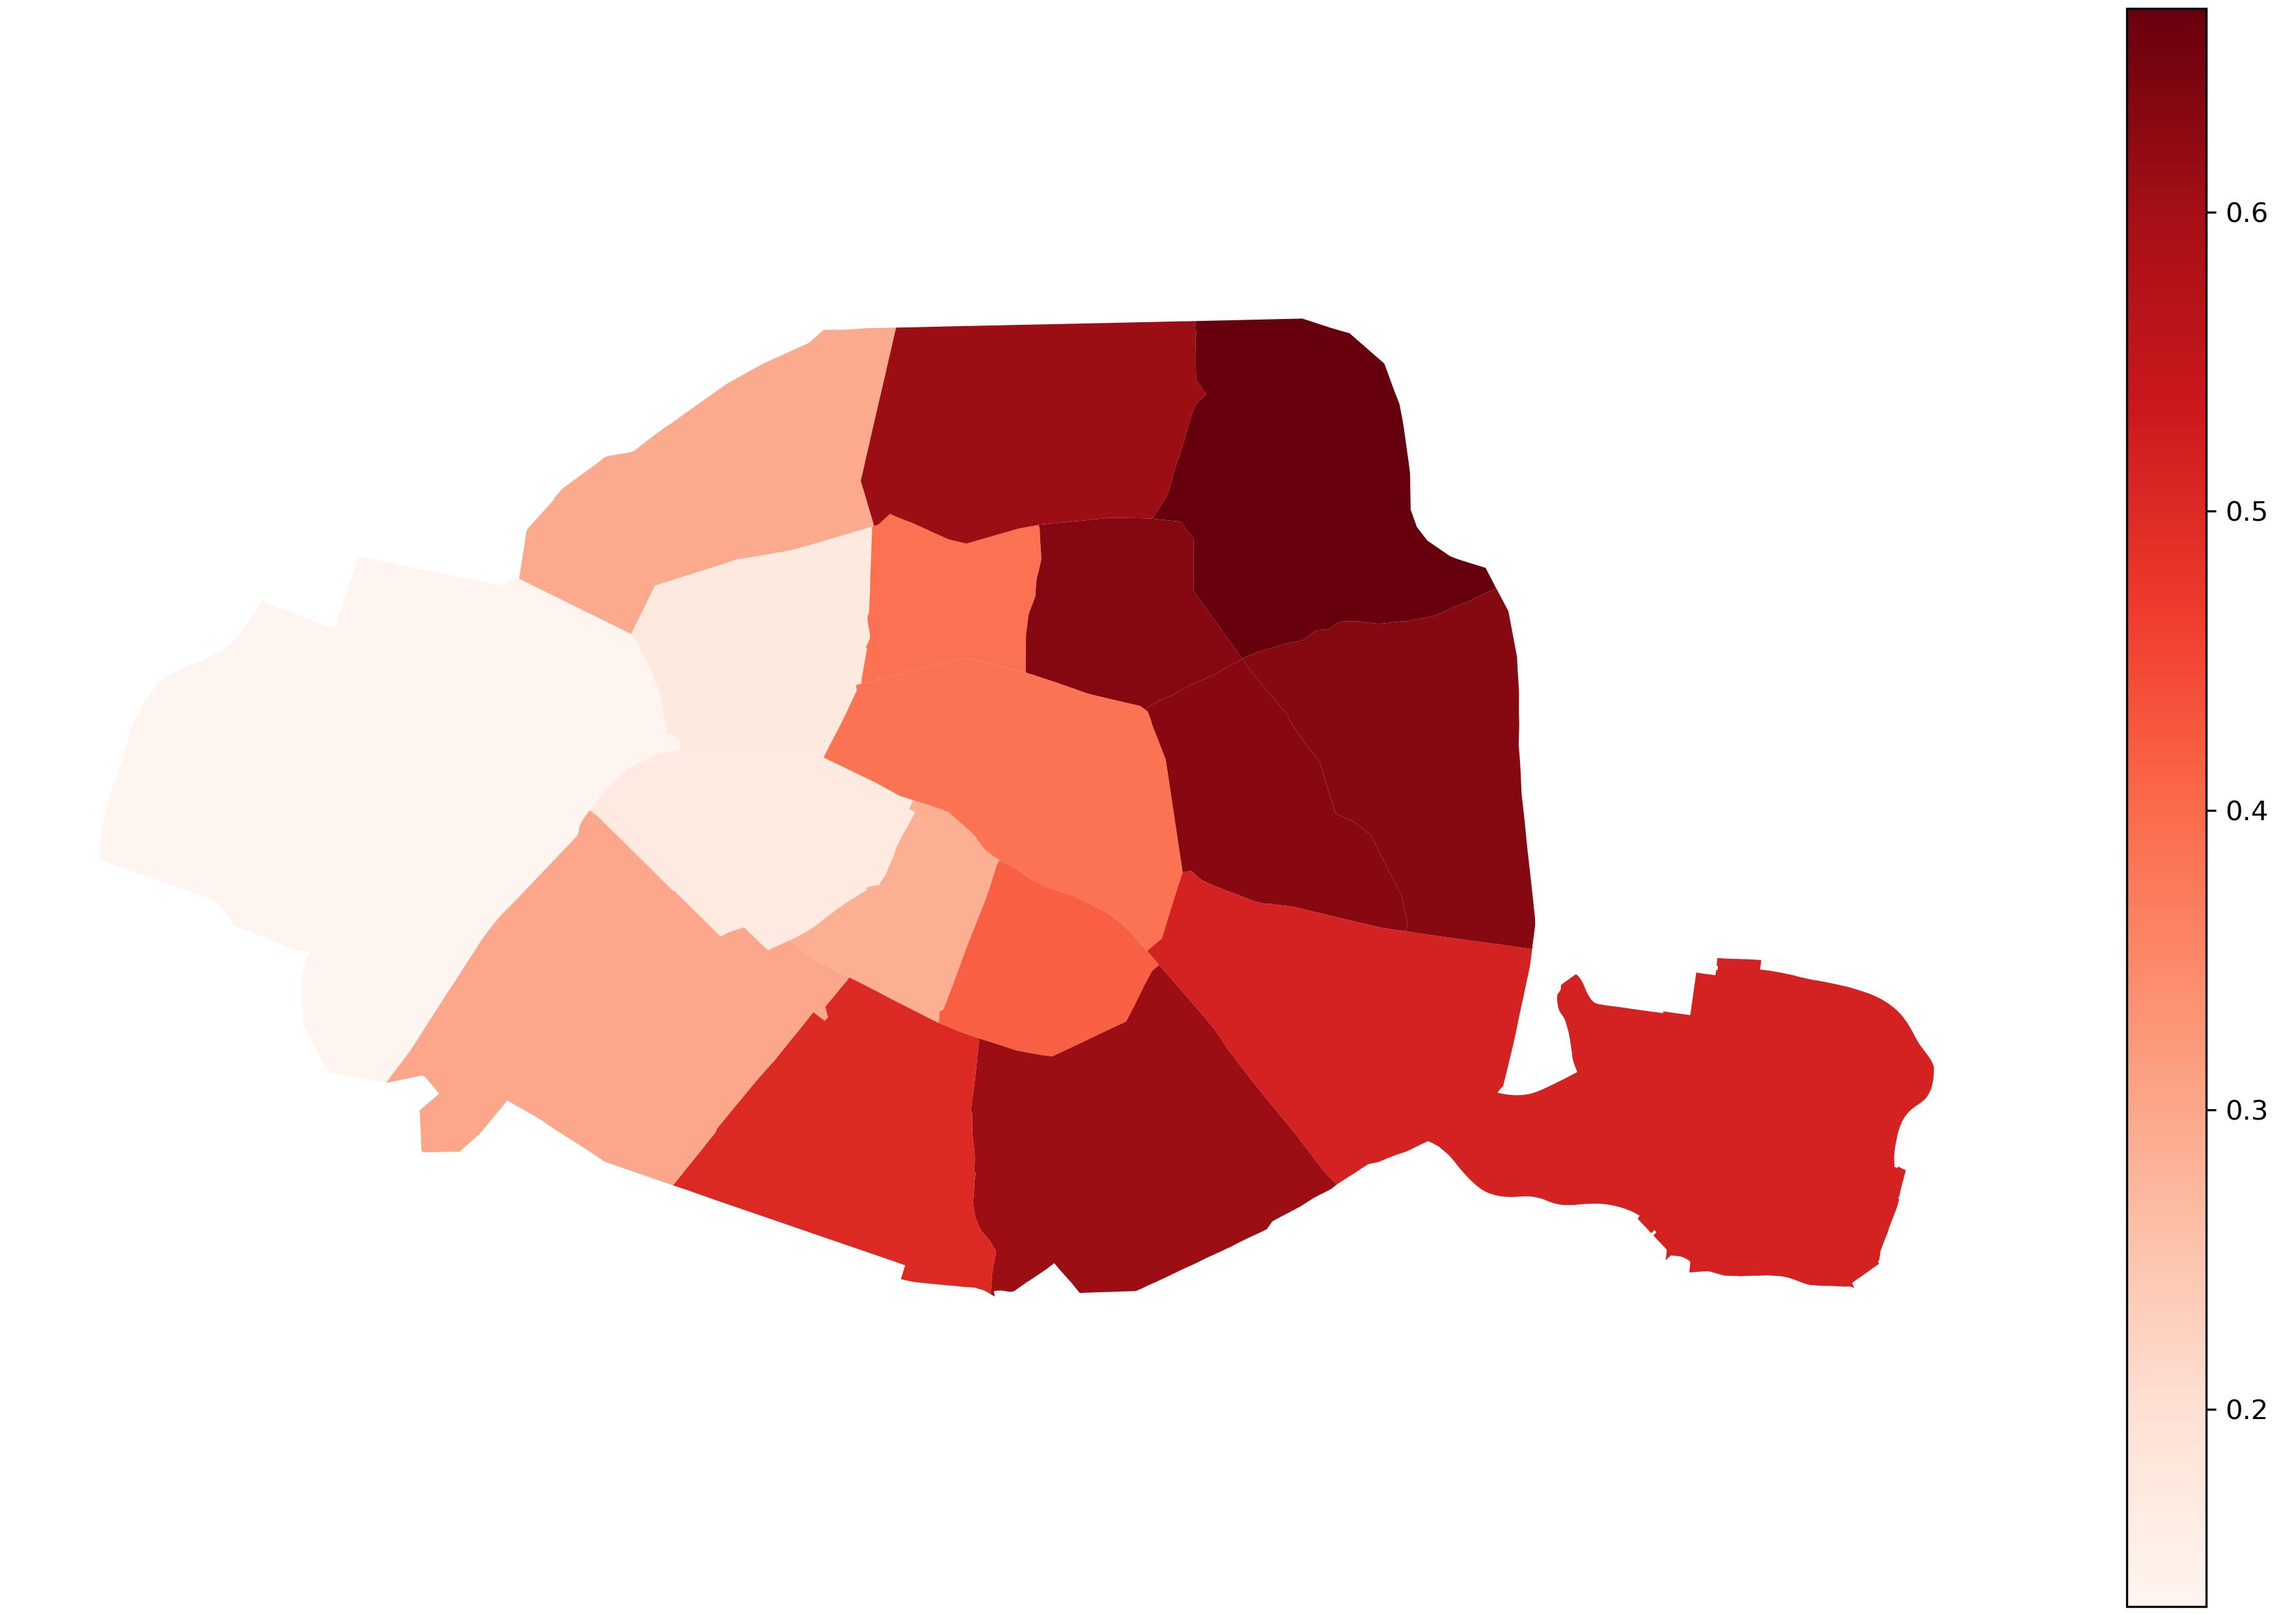
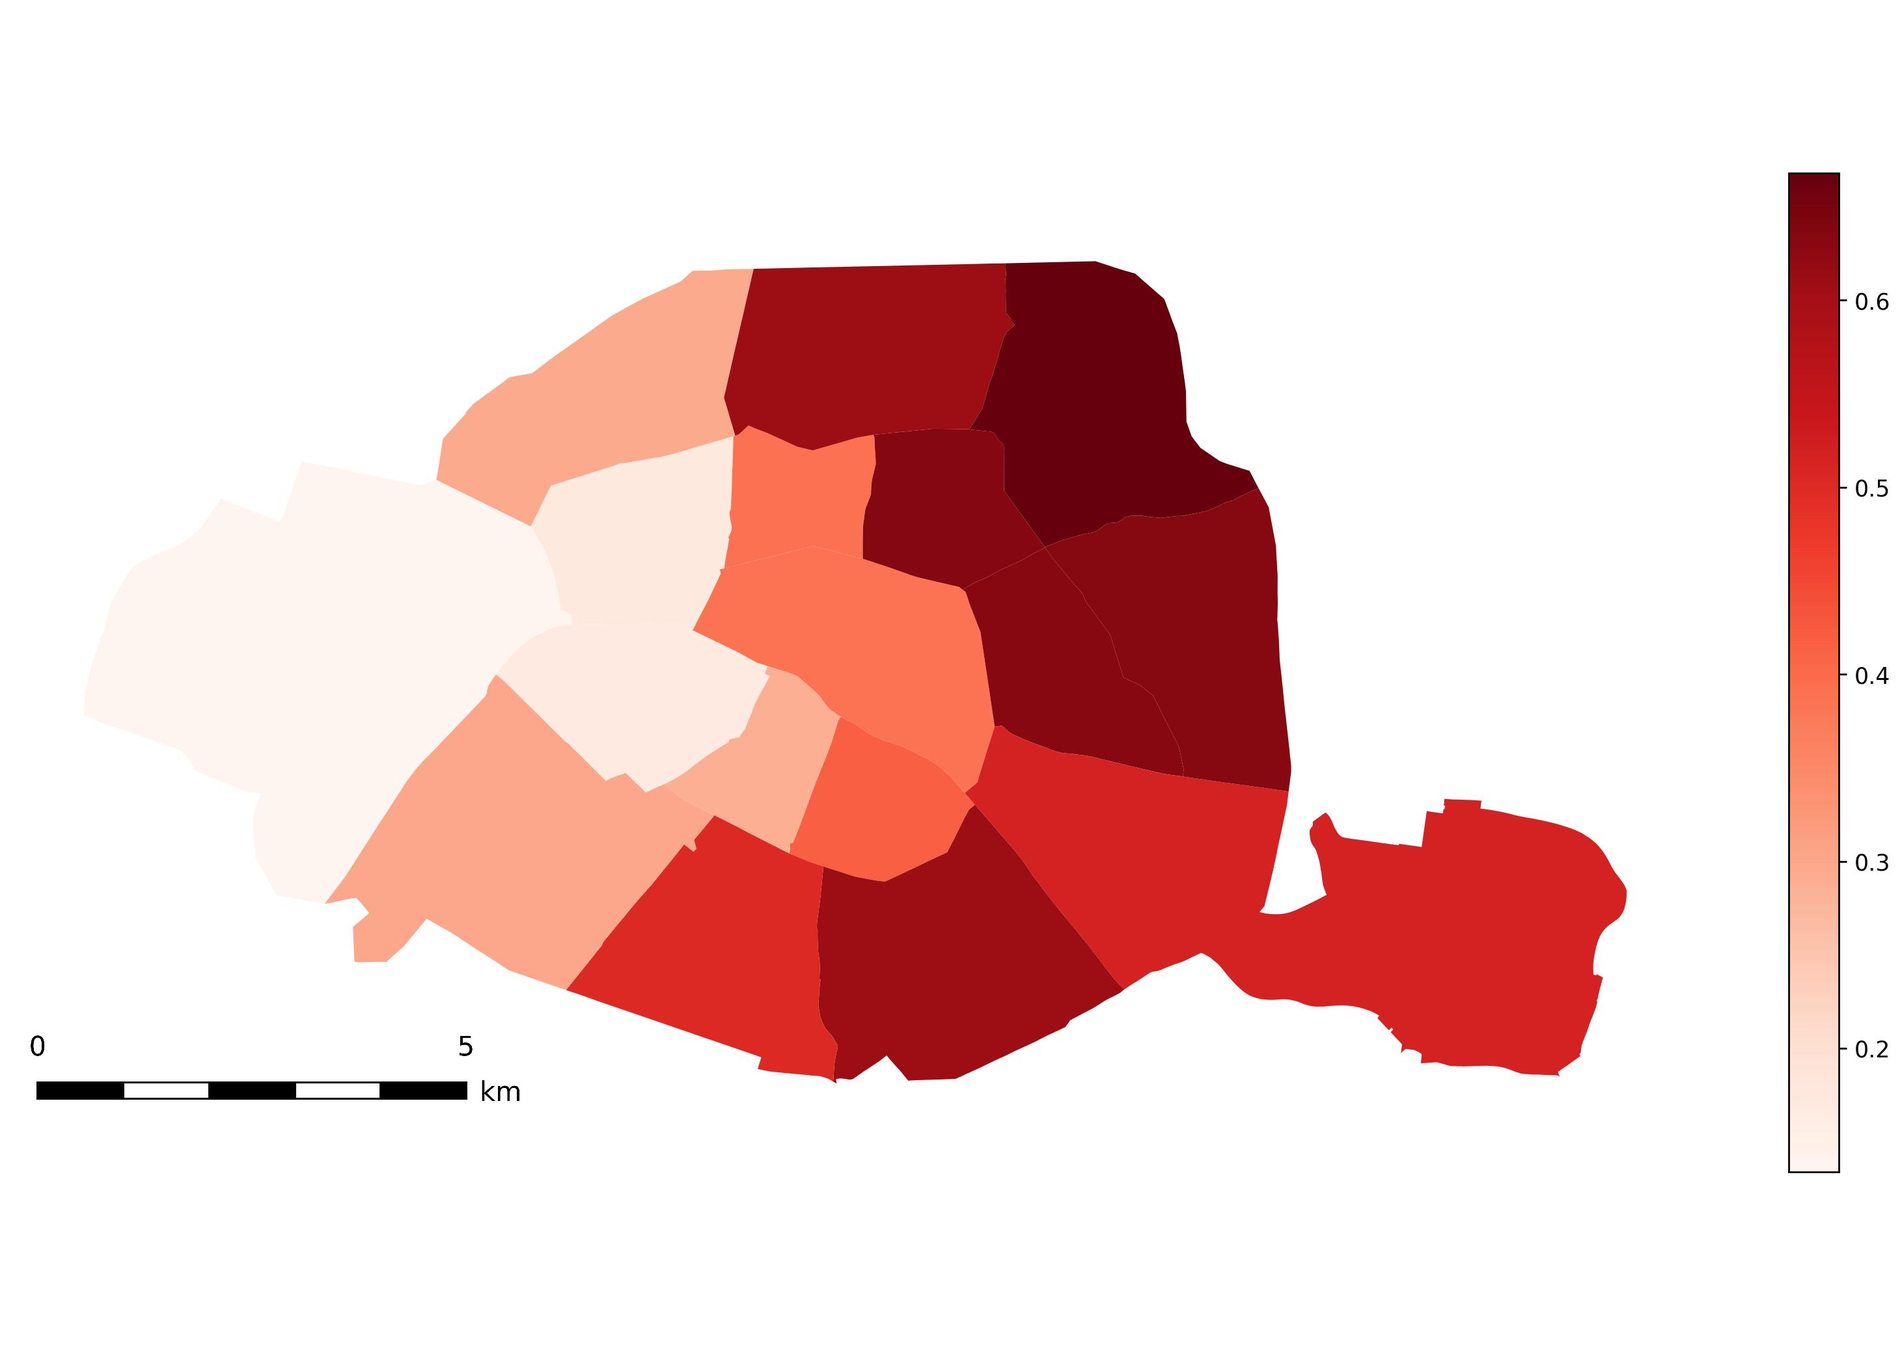
Add cartographic elements

diff --git a/scripts/D_plot_paris_maps.py b/scripts/D_plot_paris_maps.py
@@ -5,9 +5,11 @@ Plot paris official data.
 
 import geopandas as gpd
 import matplotlib.pyplot as plt
+from matplotlib_map_utils.core.scale_bar import scale_bar
 
 
-FOLDER_DATA = "./data/processed/"
+FOLDER_ARR = "./data/processed/"
+FOLDER_BIKE = "./data/raw/"
 FOLDERPLOT = "./plots/"
 PLOT_COLS = {
     "median_income": "RdYlGn",
@@ -16,27 +18,76 @@ PLOT_COLS = {
     "Left_wing_share": "Reds",
     "Right_wing_share": "Blues",
     "ratio_LR": "bwr_r",
-    "length_accomplished_share": "RdYlGn",
+    "length_accomplished_share": "Greys",
     "length_before_2021": "RdYlGn",
     "length_before_2021_norm": "RdYlGn",
     "length_planned": "RdYlGn",
     "length_planned_norm": "RdYlGn",
+    "length_built": "RdYlGn",
+    "length_built_norm": "RdYlGn",
 }
-DPI = 300
+STATE_MAP = {
+    "Pas d'aménagement": "Not built yet",
+    "Provisoire ou coronapiste": "Not built yet",
+    "Réalisé Pré-2021": "Built before 2021",
+    "Réalisé dans le Plan Vélo": "Built",
+    "Hors Plan Vélo (Embellir)": "Built",
+    "Annoncé réalisé": "Built",
+}
+STATE_COLOR = {
+    "Built before 2021": "gray",
+    "Not built yet": "red",
+    "Built": "green",
+}
+DPI = 250
 
 
 # TODO make json file for parameters
+# TODO add legend
+# TODO add minimalist basemap for bikenet?
+# TODO switch to km
+# TODO add white boundaries to "explode" the borough fo
+# TODO add very very light grey to Paris boundaries with white boundaries for bikeplan
+# TODO add numbers of arrondissements in dark and light grey on maps
+# TODO built before 2021 make thinner and choose pink or some else
 def main():
-    gdf = gpd.read_file(FOLDER_DATA + "paris_vote_arr_2020_bikenet.gpkg")
+    gdf_arr = gpd.read_file(FOLDER_ARR + "paris_vote_arr_2020_bikenet.gpkg")
+    # Plot choropleth maps
     for column_name, cmap in PLOT_COLS.items():
         fig, ax = plt.subplots(figsize=[11.69, 8.27], layout="constrained")
         if column_name == "ratio_LR":
-            kwargs = {"vmin": -0.6, "vmax": 0.6}
+            kwargs = {"vmin": -0.6, "vmax": 0.6, "legend_kwds": {"shrink": 0.75}}
         else:
-            kwargs = {}
-        gdf.plot(ax=ax, column=column_name, cmap=cmap, legend=True, **kwargs)
+            kwargs = {"legend_kwds": {"shrink": 0.75}}
+        gdf_arr.plot(ax=ax, column=column_name, cmap=cmap, legend=True, **kwargs)
+        scale_bar(
+            ax,
+            location="lower left",
+            style="boxes",
+            bar={"projection": gdf_arr.crs, "unit": "km"},
+            labels={"style": "first_last"},
+        )
         ax.axis("off")
+        ax.get_tightbbox()
         fig.savefig(FOLDERPLOT + "Paris_" + column_name + ".jpeg", dpi=DPI)
+    # Plot bicycle plan progress over arrondissement
+    gdf_bikenet = gpd.read_file(FOLDER_BIKE + "bikenet_paris_2026_01_28.json")
+    gdf_bikenet = gdf_bikenet.set_crs(epsg=4326)
+    gdf_bikenet = gdf_bikenet.to_crs(gdf_arr.crs)
+    gdf_bikenet["Etat"] = gdf_bikenet["Etat"].map(STATE_MAP)
+    gdf_bikenet["color"] = gdf_bikenet["Etat"].map(STATE_COLOR)
+    fig, ax = plt.subplots(figsize=[11.69, 8.27], layout="constrained")
+    gdf_bikenet.plot(ax=ax, color=gdf_bikenet["color"], linewidth=2)
+    ax.axis("off")
+    scale_bar(
+        ax,
+        location="lower left",
+        style="boxes",
+        bar={"projection": gdf_arr.crs, "unit": "km"},
+        labels={"style": "first_last"},
+    )
+    ax.get_tightbbox()
+    fig.savefig(FOLDERPLOT + "Paris_bikeplan.jpeg", dpi=DPI)
 
 
 if __name__ == "__main__":

diff --git a/scripts/E_plot_scatterplot_votes_delays.py b/scripts/E_plot_scatterplot_votes_delays.py
@@ -14,7 +14,8 @@ FOLDEROOTS = "./data/processed/"
 FOLDERPLOT = "./plots/"
 
 
-# TODO add OLS results R2, slope, and p-value on the scatterplot?
+# TODO put number in center of dot in matplotlib and put only dot as markers
+# TODO put inset for Left and Right the choropleth maps
 def main():
     with open("./scripts/E_plot_scatterplot_votes_delays.json", "r") as f:
         plot_params = json.load(f)
